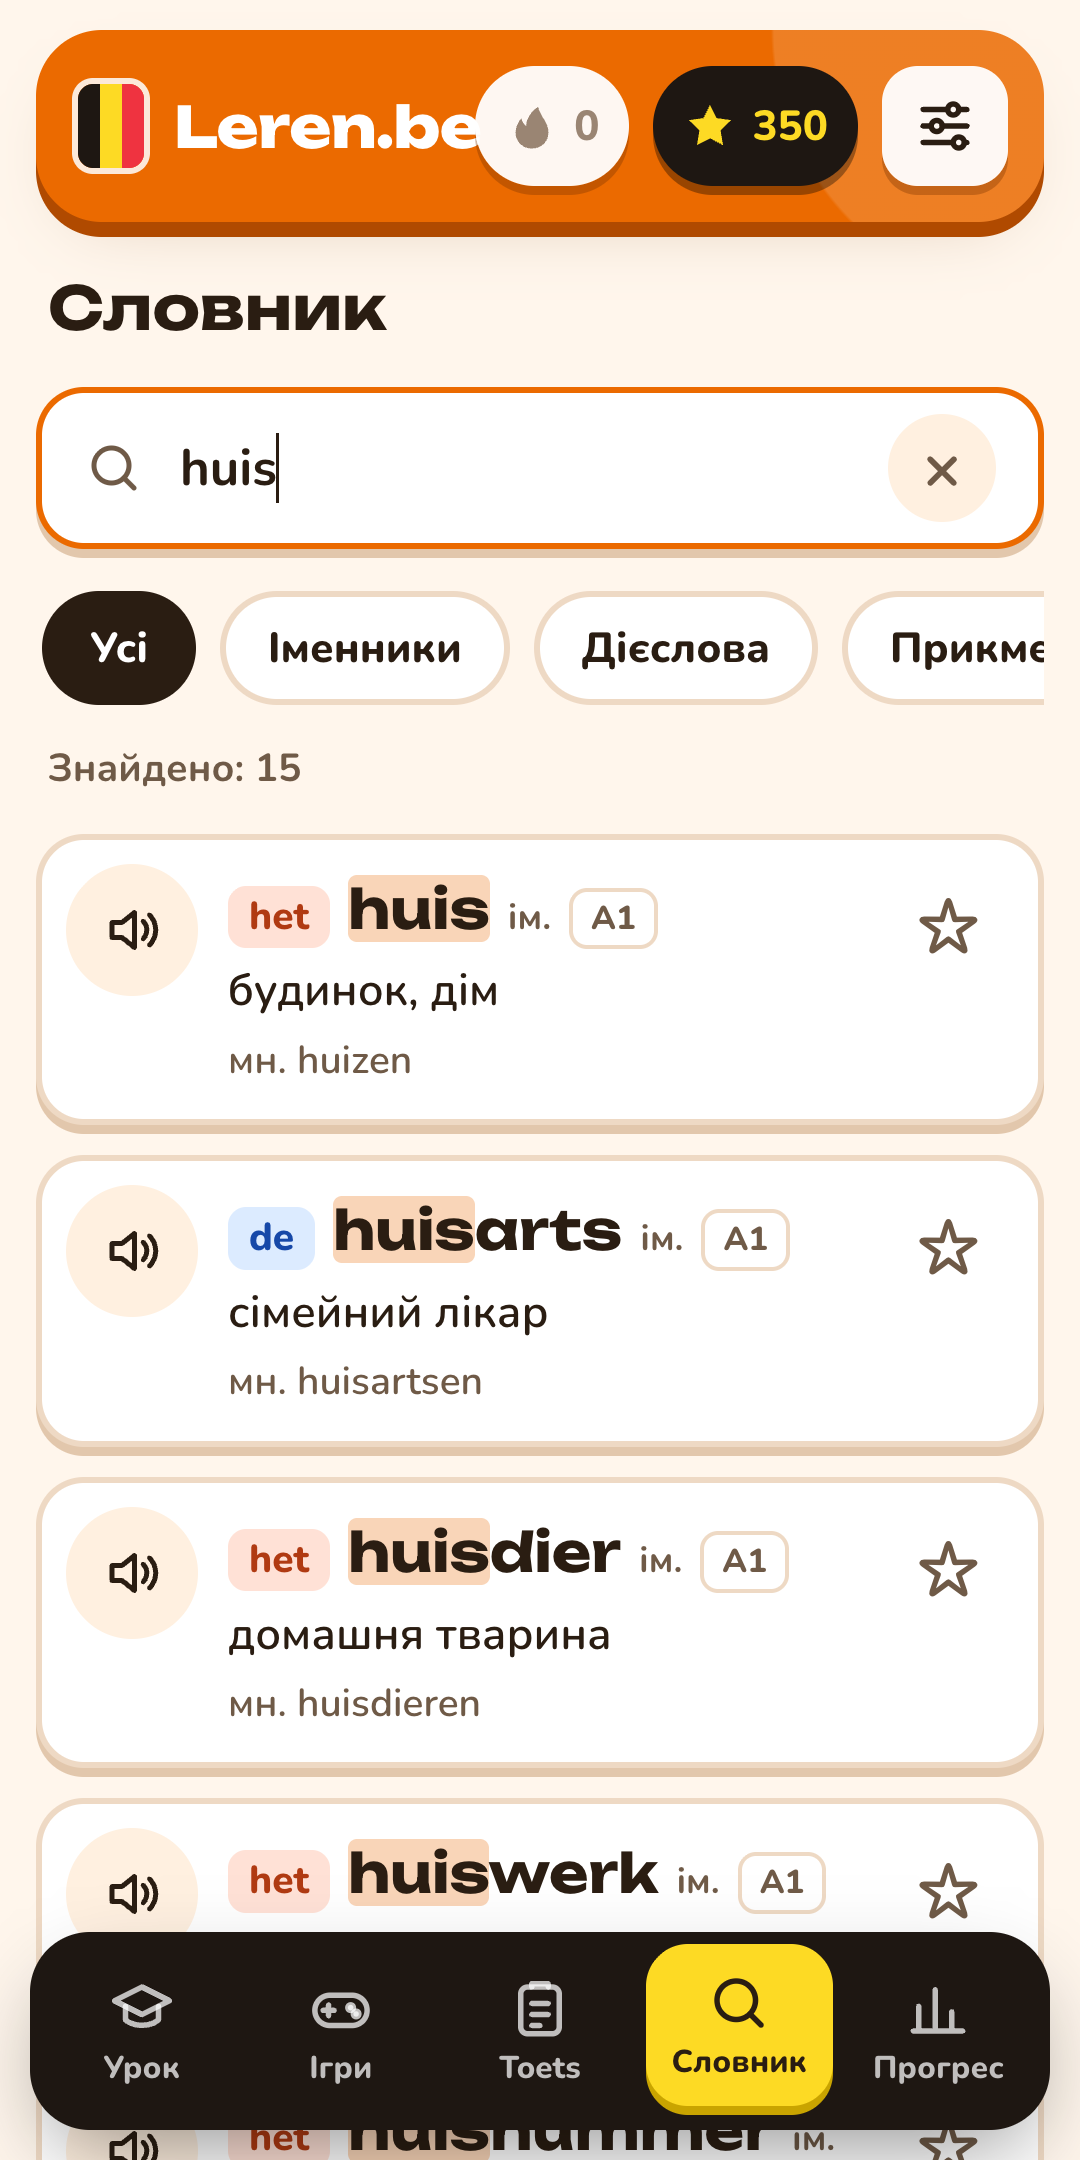
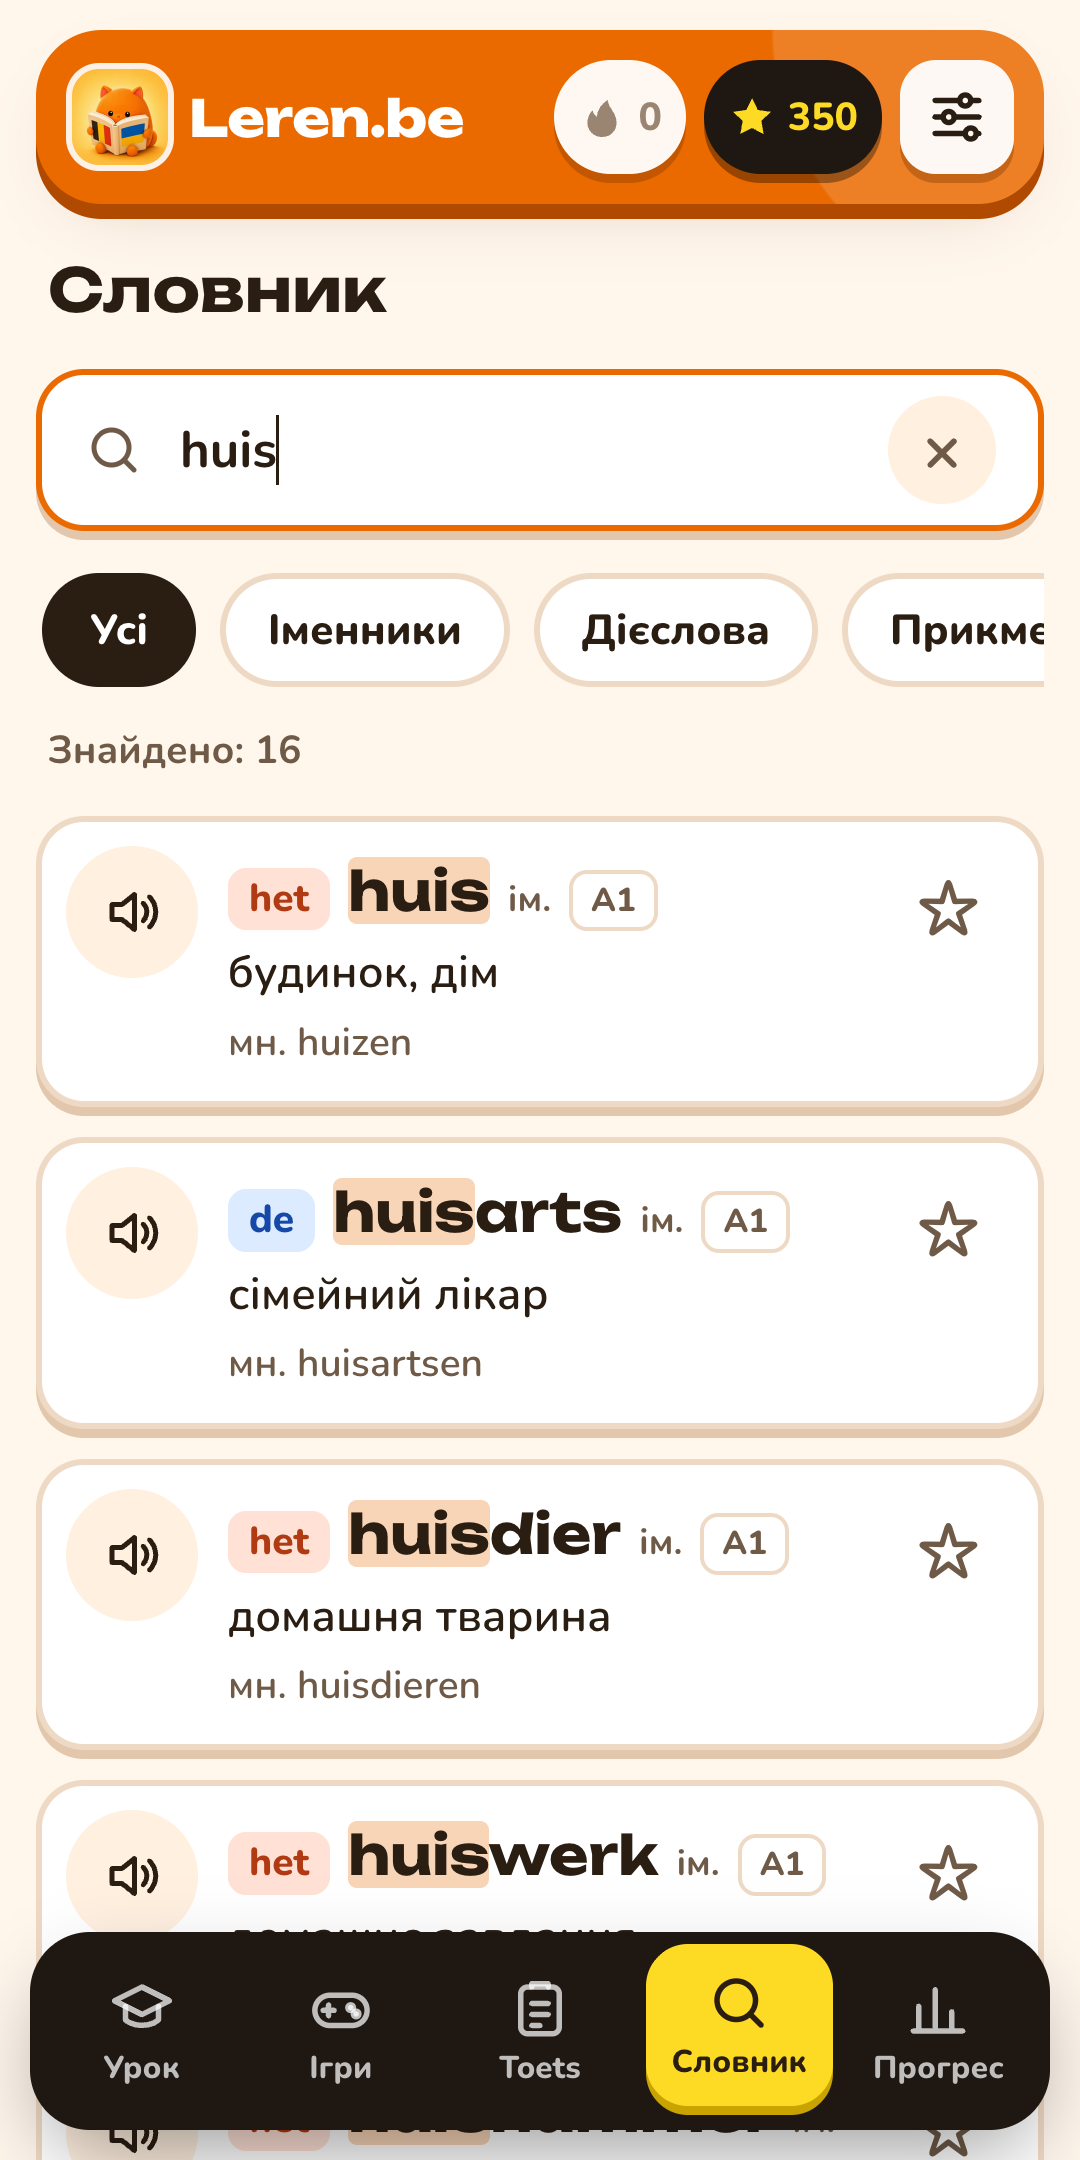
Play assets match the current app: screenshots re-shot with Peter and the cat header; store text and manifest labels say Peter

diff --git a/store/store-listing.md b/store/store-listing.md
@@ -31,7 +31,7 @@ Leren.be — Nederlands A1
 **Повний опис:**
 Leren.be — тренажер нідерландської мови рівнів A1.1 і A1.2, створений українцем, який сам вивчає нідерландську в Бельгії. Усе, що потрібно на перших курсах (CVO, inburgering), зібрано в одному застосунку з поясненнями українською.
 
-🤖 AI-ВИКЛАДАЧ РУЛЬ
+🤖 AI-ВИКЛАДАЧ ПІТЕР
 • «Praat met Peter»: розмовляй письмово або голосом — Пітер відповідає простою нідерландською, виправляє помилки й пояснює правило українською.
 • «Запитай Пітера»: питай про граматику, слова, переклад і вимову, проси вправи — з прикладами, які можна прослухати.
 • Під кожною відповіддю — переклад українською.
